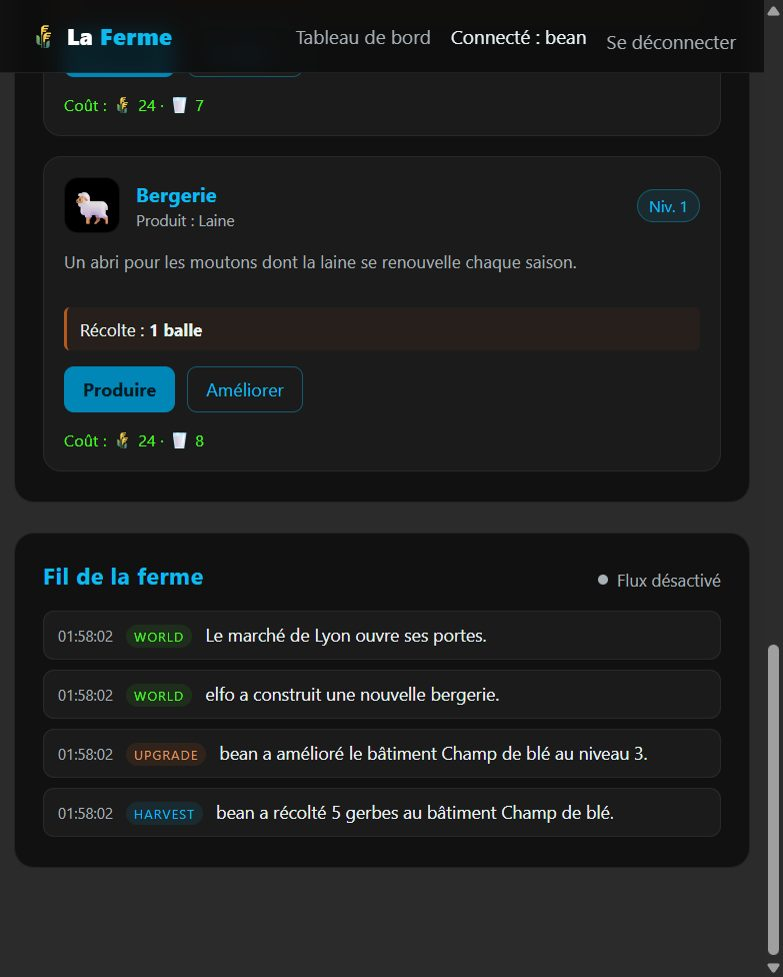
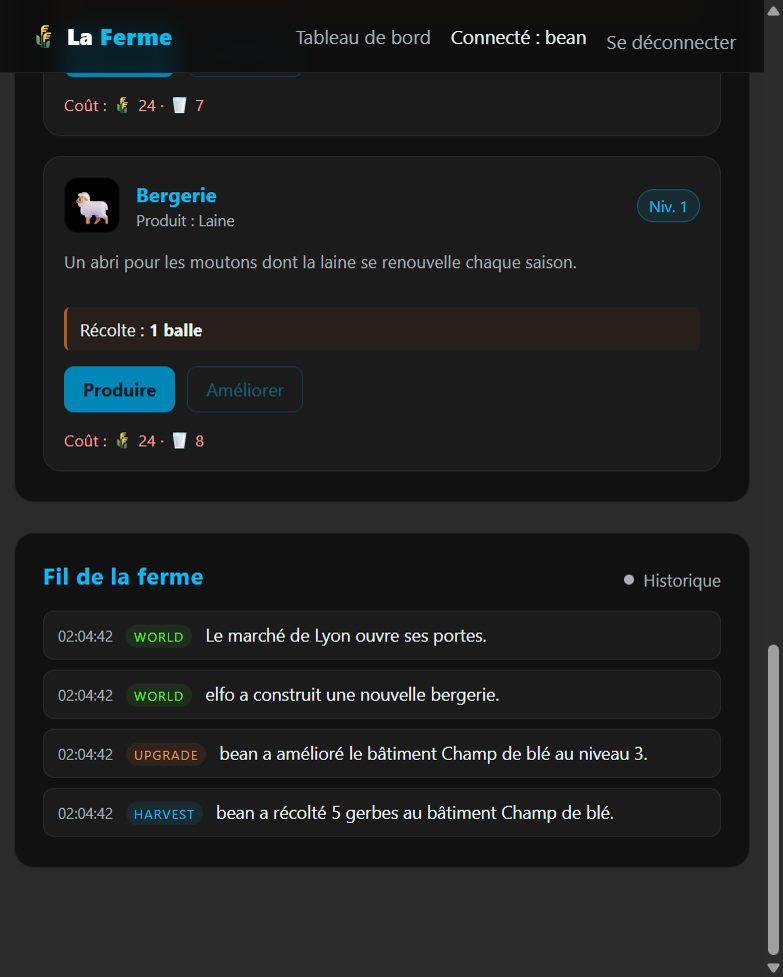
fix(ui): label the static feed as history

diff --git a/src/site/Public/js/main.js b/src/site/Public/js/main.js
@@ -199,7 +199,7 @@
 
         const mode = new URLSearchParams(window.location.search).get('live');
         if (mode === '0') {
-            setLiveStatus(null, 'Flux désactivé');
+            setLiveStatus(null, 'Historique');
             return;
         }
 
